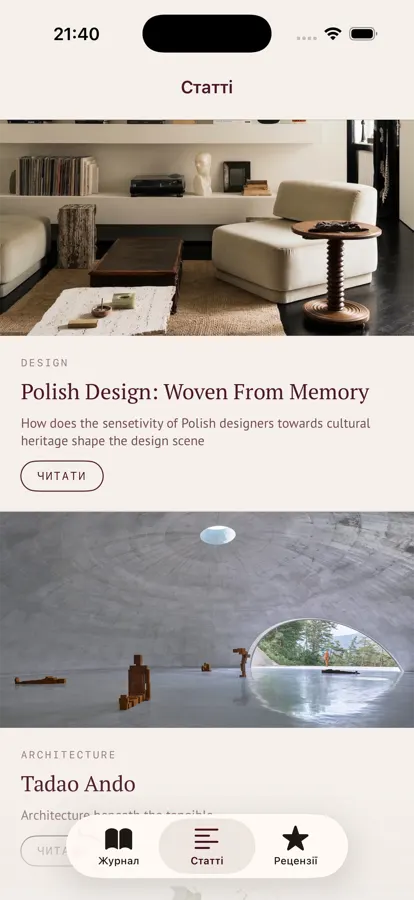
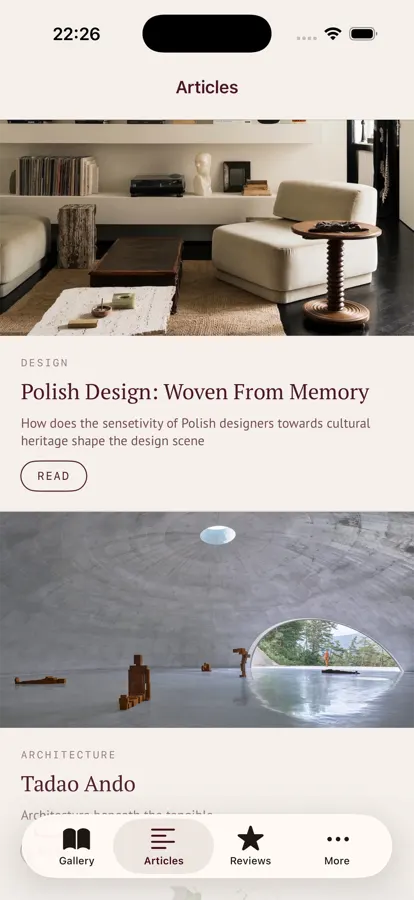
App section in English: announcement, screenshots, privacy, support
The section is aimed at the App Store review and an international
audience, so it is English-only. Screenshots retaken with the English
interface and the new navigation.

diff --git a/public/app/index.html b/public/app/index.html
@@ -1,15 +1,17 @@
 <!DOCTYPE html>
-<html lang="uk">
+<html lang="en">
 <head>
 <meta charset="utf-8">
 <meta name="viewport" content="width=device-width, initial-scale=1">
-<title>EPRIS для iPhone — застосунок, політика конфіденційності та підтримка</title>
-<meta name="description" content="Застосунок EPRIS Journal для iPhone: журнал, статті та рецензії з читанням офлайн. Політика конфіденційності та контакти підтримки.">
+<title>EPRIS for iPhone — the journal, offline. Coming to the App Store</title>
+<meta name="description" content="EPRIS Journal is coming to iPhone. Articles and reviews read natively and stay readable offline. Screenshots, privacy policy and support.">
 <link rel="canonical" href="https://eprisjournal.com/app/">
-<meta property="og:title" content="EPRIS для iPhone">
-<meta property="og:description" content="Журнал, статті та рецензії у застосунку. Читання офлайн.">
-<meta property="og:image" content="https://eprisjournal.com/images/app/01-journal.webp">
+<meta property="og:type" content="website">
+<meta property="og:title" content="EPRIS for iPhone">
+<meta property="og:description" content="The journal in your pocket — and readable without a signal. Coming to the App Store.">
+<meta property="og:image" content="https://eprisjournal.com/images/app/01-gallery.webp">
 <meta property="og:url" content="https://eprisjournal.com/app/">
+<meta name="twitter:card" content="summary_large_image">
 <link rel="icon" href="/favicon.svg" type="image/svg+xml">
 <style>
   :root {
@@ -17,6 +19,7 @@
     --bg: #f5f0eb;
     --dark: #180D13;
     --cream: #F7F2EC;
+    --line: rgb(74 23 40 / .16);
   }
   * { box-sizing: border-box; }
   body {
@@ -27,69 +30,83 @@
     line-height: 1.6;
     -webkit-font-smoothing: antialiased;
   }
-  .wrap { max-width: 1100px; margin: 0 auto; padding: 0 24px; }
+  .wrap { max-width: 1120px; margin: 0 auto; padding: 0 24px; }
   a { color: inherit; }
 
-  header.top {
-    border-bottom: 1px solid rgb(74 23 40 / .18);
-    padding: 22px 0;
-  }
+  header.top { border-bottom: 1px solid var(--line); padding: 22px 0; }
   header.top .wrap { display: flex; justify-content: space-between; align-items: center; }
   .brand { font-family: Georgia, "PT Serif", serif; letter-spacing: .5em; font-size: 18px; text-decoration: none; }
   .back { font-family: ui-monospace, monospace; font-size: 11px; letter-spacing: .18em; text-transform: uppercase; text-decoration: none; opacity: .7; }
   .back:hover { opacity: 1; }
 
-  .hero { padding: 72px 0 40px; }
-  .kicker { font-family: ui-monospace, monospace; font-size: 11px; letter-spacing: .22em; text-transform: uppercase; opacity: .6; margin: 0 0 18px; }
-  h1 { font-family: Georgia, "PT Serif", serif; font-weight: 400; font-size: clamp(38px, 7vw, 68px); line-height: 1.05; margin: 0 0 22px; }
-  .lede { font-size: clamp(16px, 2.2vw, 19px); max-width: 60ch; opacity: .85; margin: 0 0 26px; }
-  .status {
-    display: inline-block; font-family: ui-monospace, monospace; font-size: 11px;
-    letter-spacing: .16em; text-transform: uppercase;
-    border: 1px solid rgb(74 23 40 / .35); padding: 9px 16px;
+  .hero { padding: 78px 0 34px; }
+  .kicker {
+    font-family: ui-monospace, monospace; font-size: 11px; letter-spacing: .24em;
+    text-transform: uppercase; opacity: .6; margin: 0 0 20px;
   }
+  h1 {
+    font-family: Georgia, "PT Serif", serif; font-weight: 400;
+    font-size: clamp(40px, 7.5vw, 76px); line-height: 1.03;
+    letter-spacing: -.015em; margin: 0 0 24px; max-width: 16ch;
+  }
+  .lede { font-size: clamp(16px, 2.2vw, 20px); max-width: 58ch; opacity: .85; margin: 0 0 30px; }
+  .status {
+    display: inline-flex; align-items: center; gap: 10px;
+    font-family: ui-monospace, monospace; font-size: 11px;
+    letter-spacing: .16em; text-transform: uppercase;
+    border: 1px solid rgb(74 23 40 / .35); padding: 10px 18px;
+  }
+  .dot { width: 6px; height: 6px; border-radius: 50%; background: currentColor; opacity: .7; }
 
-  .shots { display: grid; grid-template-columns: repeat(auto-fit, minmax(190px, 1fr)); gap: 18px; padding: 26px 0 64px; }
+  .shots {
+    display: grid; grid-template-columns: repeat(auto-fit, minmax(200px, 1fr));
+    gap: 20px; padding: 34px 0 72px;
+  }
   .shot { margin: 0; }
   .shot img {
     width: 100%; height: auto; display: block;
-    border: 1px solid rgb(74 23 40 / .16);
-    background: #fff;
+    border: 1px solid var(--line); background: #fff;
   }
   .shot figcaption {
     font-family: ui-monospace, monospace; font-size: 10px; letter-spacing: .16em;
-    text-transform: uppercase; opacity: .55; margin-top: 10px;
+    text-transform: uppercase; opacity: .55; margin-top: 11px;
   }
 
-  section.band { background: var(--dark); color: var(--cream); padding: 64px 0; }
+  section.band { background: var(--dark); color: var(--cream); padding: 72px 0; }
   section.band h2, section.band h3 { color: var(--cream); }
-  h2 { font-family: Georgia, "PT Serif", serif; font-weight: 400; font-size: clamp(26px, 4vw, 38px); margin: 0 0 22px; }
+  h2 {
+    font-family: Georgia, "PT Serif", serif; font-weight: 400;
+    font-size: clamp(28px, 4.2vw, 42px); margin: 0 0 26px;
+  }
   h3 { font-family: Georgia, "PT Serif", serif; font-weight: 400; font-size: 20px; margin: 30px 0 10px; }
 
-  .features { display: grid; grid-template-columns: repeat(auto-fit, minmax(230px, 1fr)); gap: 28px; }
+  .features { display: grid; grid-template-columns: repeat(auto-fit, minmax(240px, 1fr)); gap: 32px; }
   .features h3 { margin-top: 0; }
   .features p { opacity: .8; margin: 0; font-size: 15px; }
 
-  section.plain { padding: 64px 0; }
+  section.plain { padding: 72px 0; }
   .prose { max-width: 68ch; }
   .prose p, .prose li { opacity: .88; }
   .prose ul { padding-left: 20px; }
   .prose li { margin-bottom: 8px; }
-  .updated { font-family: ui-monospace, monospace; font-size: 11px; letter-spacing: .14em; text-transform: uppercase; opacity: .55; }
+  .updated {
+    font-family: ui-monospace, monospace; font-size: 11px;
+    letter-spacing: .14em; text-transform: uppercase; opacity: .55;
+  }
+  code { font-size: .92em; }
 
-  footer.bottom {
-    border-top: 1px solid rgb(74 23 40 / .18);
-    padding: 34px 0 56px;
+  footer.bottom { border-top: 1px solid var(--line); padding: 34px 0 60px; }
+  footer.bottom .wrap {
+    display: flex; flex-wrap: wrap; gap: 18px; justify-content: space-between;
     font-family: ui-monospace, monospace; font-size: 11px;
     letter-spacing: .14em; text-transform: uppercase; opacity: .65;
-    display: flex; flex-wrap: wrap; gap: 18px; justify-content: space-between;
   }
 
   @media (prefers-color-scheme: dark) {
+    :root { --line: rgb(240 230 222 / .18); }
     body { background: #140b10; color: #F0E6DE; }
-    header.top, footer.bottom { border-color: rgb(240 230 222 / .18); }
     .status { border-color: rgb(240 230 222 / .35); }
-    .shot img { border-color: rgb(240 230 222 / .18); background: #1e1218; }
+    .shot img { background: #1e1218; }
   }
 </style>
 </head>
@@ -98,62 +115,62 @@
 <header class="top">
   <div class="wrap">
     <a class="brand" href="/">EPRIS</a>
-    <a class="back" href="/">← до журналу</a>
+    <a class="back" href="/">← back to the journal</a>
   </div>
 </header>
 
 <main>
   <div class="wrap hero">
-    <p class="kicker">EPRIS для iPhone</p>
-    <h1>Журнал, який читається без мережі</h1>
+    <p class="kicker">EPRIS for iPhone</p>
+    <h1>The journal, readable without a signal</h1>
     <p class="lede">
-      Застосунок EPRIS Journal приносить статті, рецензії та випуски на iPhone.
-      Матеріали зберігаються на пристрої: відкриті раніше тексти читаються
-      в літаку, метро й будь-де без зв'язку.
+      EPRIS is coming to iPhone. Articles and reviews are rendered natively, in the
+      typography of the journal — and once loaded, they stay on the device. Read them
+      on a plane, on the metro, anywhere the signal gives up.
     </p>
-    <p class="status">Готується до випуску в App Store</p>
+    <p class="status"><span class="dot"></span> Coming to the App Store</p>
   </div>
 
   <div class="wrap">
     <div class="shots">
       <figure class="shot">
-        <img src="/images/app/01-journal.webp" alt="Головний екран застосунку EPRIS зі статтею про архітектуру" loading="lazy" width="414" height="900">
-        <figcaption>Журнал</figcaption>
+        <img src="/images/app/01-gallery.webp" alt="EPRIS app home screen showing a feature on architecture" loading="lazy" width="414" height="900">
+        <figcaption>Gallery</figcaption>
       </figure>
       <figure class="shot">
-        <img src="/images/app/02-articles.webp" alt="Стрічка статей у застосунку EPRIS" loading="lazy" width="414" height="900">
-        <figcaption>Статті</figcaption>
+        <img src="/images/app/02-articles.webp" alt="Article feed in the EPRIS app" loading="lazy" width="414" height="900">
+        <figcaption>Articles</figcaption>
       </figure>
       <figure class="shot">
-        <img src="/images/app/03-reader.webp" alt="Читання статті у застосунку EPRIS" loading="lazy" width="414" height="900">
-        <figcaption>Читання</figcaption>
+        <img src="/images/app/03-reader.webp" alt="Reading a long-form article in the EPRIS app" loading="lazy" width="414" height="900">
+        <figcaption>Reading</figcaption>
       </figure>
       <figure class="shot">
-        <img src="/images/app/04-review.webp" alt="Рецензія з оцінкою, аргументами за і проти та вердиктом" loading="lazy" width="414" height="900">
-        <figcaption>Рецензії</figcaption>
+        <img src="/images/app/04-review.webp" alt="A review with rating, pros and cons, and a verdict" loading="lazy" width="414" height="900">
+        <figcaption>Reviews</figcaption>
       </figure>
     </div>
   </div>
 
   <section class="band">
     <div class="wrap">
-      <h2>Що всередині</h2>
+      <h2>What's inside</h2>
       <div class="features">
         <div>
-          <h3>Читання офлайн</h3>
-          <p>Матеріали кешуються на пристрої. Без мережі застосунок показує збережену копію й повідомляє про це.</p>
+          <h3>Reads offline</h3>
+          <p>The journal is cached on the device. With no connection the app serves the saved copy and says so plainly, instead of failing.</p>
         </div>
         <div>
-          <h3>Статті та рецензії</h3>
-          <p>Рідні екрани з типографікою журналу: цитати, галереї, оцінки, аргументи за і проти, вердикт.</p>
+          <h3>Articles and reviews, natively</h3>
+          <p>Quotes, galleries, pull-outs, ratings, pros and cons, verdicts — laid out in the journal's own typography, not a page in a frame.</p>
         </div>
         <div>
-          <h3>Розмір тексту</h3>
-          <p>Типографіка підлаштовується під системний розмір шрифту, включно з великими значеннями.</p>
+          <h3>Seven languages</h3>
+          <p>The app follows your device language and picks up the journal's own translations, including Ukrainian.</p>
         </div>
         <div>
-          <h3>Нічого зайвого</h3>
-          <p>Без реєстрації, реклами та стеження. Застосунок не просить доступу до камери, мікрофона чи фото.</p>
+          <h3>Nothing extra</h3>
+          <p>No account, no ads, no tracking. The app asks for no permissions at all — not the camera, microphone, or photos.</p>
         </div>
       </div>
     </div>
@@ -161,90 +178,86 @@
 
   <section class="plain" id="privacy">
     <div class="wrap prose">
-      <h2>Політика конфіденційності</h2>
-      <p class="updated">Оновлено 7 серпня 2026</p>
+      <h2>Privacy policy</h2>
+      <p class="updated">Updated 7 August 2026</p>
 
       <p>
-        Застосунок EPRIS Journal для iOS (далі — «застосунок») не збирає, не зберігає
-        і не передає персональні дані. Ця політика описує, як застосунок поводиться з інформацією.
+        The EPRIS Journal app for iOS (the "app") collects no personal data, stores none,
+        and sends none. This policy sets out exactly how the app handles information.
       </p>
 
-      <h3>Які дані ми збираємо</h3>
+      <h3>What we collect</h3>
       <p>
-        Жодних. У застосунку немає реєстрації та облікових записів. Ми не збираємо ім'я,
-        адресу електронної пошти, контакти, місцеперебування, ідентифікатори пристрою
-        та інші персональні дані.
+        Nothing. The app has no sign-up and no accounts. We do not collect your name,
+        email address, contacts, location, device identifiers, or any other personal data.
       </p>
 
-      <h3>Відстеження та реклама</h3>
+      <h3>Tracking and advertising</h3>
       <p>
-        Застосунок не відстежує вас у застосунках і на сайтах інших компаній, не показує
-        реклами й не містить сторонніх аналітичних чи рекламних комплектів розробки.
+        The app does not track you across other companies' apps and websites, shows no
+        advertising, and contains no third-party analytics or advertising SDKs.
       </p>
 
-      <h3>Що зберігається на вашому пристрої</h3>
+      <h3>What stays on your device</h3>
       <ul>
-        <li>копія матеріалів журналу — щоб їх можна було читати без мережі;</li>
-        <li>технічна позначка версії контенту, щоб не завантажувати те, що не змінилося;</li>
-        <li>дані веб-перегляду для розділів, які відкриваються з сайту.</li>
+        <li>a copy of the journal's content, so it can be read without a connection;</li>
+        <li>a technical marker of the content version, so unchanged content isn't downloaded again;</li>
+        <li>web view data for the sections that are served from the site.</li>
       </ul>
       <p>
-        Ці дані залишаються на пристрої, нам не надсилаються й повністю видаляються
-        разом із застосунком.
+        This data stays on your device, is never sent to us, and is removed completely
+        when the app is deleted.
       </p>
 
-      <h3>Мережеві запити</h3>
+      <h3>Network requests</h3>
       <p>
-        Щоб показати матеріали, застосунок звертається до наших серверів
-        (<code>eprisjournal.com</code> та <code>api.eprisjournal.com</code>). Як і будь-який
-        веб-запит, він містить IP-адресу та тип застосунку — це технічно необхідно для
-        доставлення відповіді. Ми не використовуємо ці записи для профілювання
-        й не поєднуємо їх з особою користувача.
+        To show the journal, the app contacts our servers (<code>eprisjournal.com</code> and
+        <code>api.eprisjournal.com</code>). As with any web request, this includes an IP address
+        and the app type — technically necessary to deliver a response. We do not use these
+        records for profiling and do not tie them to an individual.
       </p>
 
-      <h3>Діти</h3>
+      <h3>Children</h3>
+      <p>The app is not directed at children and collects no data about them.</p>
+
+      <h3>Changes</h3>
       <p>
-        Застосунок не призначений для дітей і не збирає жодних даних про них.
+        If this policy changes, the updated version will appear on this page along with its date.
       </p>
 
-      <h3>Зміни</h3>
+      <h3>Contact</h3>
       <p>
-        Якщо політика зміниться, оновлена версія з'явиться на цій сторінці разом із датою.
-      </p>
-
-      <h3>Контакт</h3>
-      <p>
-        Питання щодо конфіденційності — <a href="mailto:munister@outlook.com">munister@outlook.com</a>.
+        Privacy questions: <a href="mailto:munister@outlook.com">munister@outlook.com</a>.
       </p>
     </div>
   </section>
 
   <section class="band" id="support">
     <div class="wrap prose">
-      <h2>Підтримка</h2>
+      <h2>Support</h2>
       <p>
-        Не працює завантаження, зникли матеріали, застосунок закривається сам —
-        напишіть, і ми розберемося.
+        Content won't load, articles have vanished, the app quits on its own — write to us
+        and we'll sort it out.
       </p>
       <p>
-        Пошта: <a href="mailto:munister@outlook.com">munister@outlook.com</a><br>
-        Відповідаємо протягом кількох робочих днів.
+        Email: <a href="mailto:munister@outlook.com">munister@outlook.com</a><br>
+        We reply within a few working days.
       </p>
       <p>
-        Щоб нам було швидше: вкажіть модель iPhone, версію iOS і що саме відбувалося
-        перед збоєм.
+        It helps to include your iPhone model, your iOS version, and what you were doing
+        just before things went wrong.
       </p>
     </div>
   </section>
 </main>
 
 <footer class="bottom">
-  <div class="wrap" style="display:flex; flex-wrap:wrap; gap:18px; justify-content:space-between; width:100%;">
+  <div class="wrap">
     <span>© 2026 EPRIS Journal</span>
     <span>
-      <a href="#privacy">Конфіденційність</a> ·
-      <a href="#support">Підтримка</a> ·
-      <a href="/">Журнал</a>
+      <a href="#privacy">Privacy</a> ·
+      <a href="#support">Support</a> ·
+      <a href="/">Journal</a>
     </span>
   </div>
 </footer>
